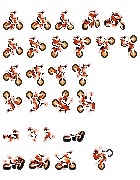
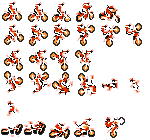
ｱﾆﾒｰｼｮﾝの実装

diff --git a/Camera.cpp b/Camera.cpp
@@ -80,7 +80,7 @@ void Camera::Update(void)
 
 void Camera::Draw(void)
 {
-	DrawRotaGraph(pos.x,pos.y,2,0,IMAGE_ID("image/cameraman.png")[1],true);
+	DrawRotaGraph(pos.x,pos.y,2,0,IMAGE_ID("image/rider.png")[20],true);
 }
 
 VECTOR2 Camera::GetdefPos(void)
